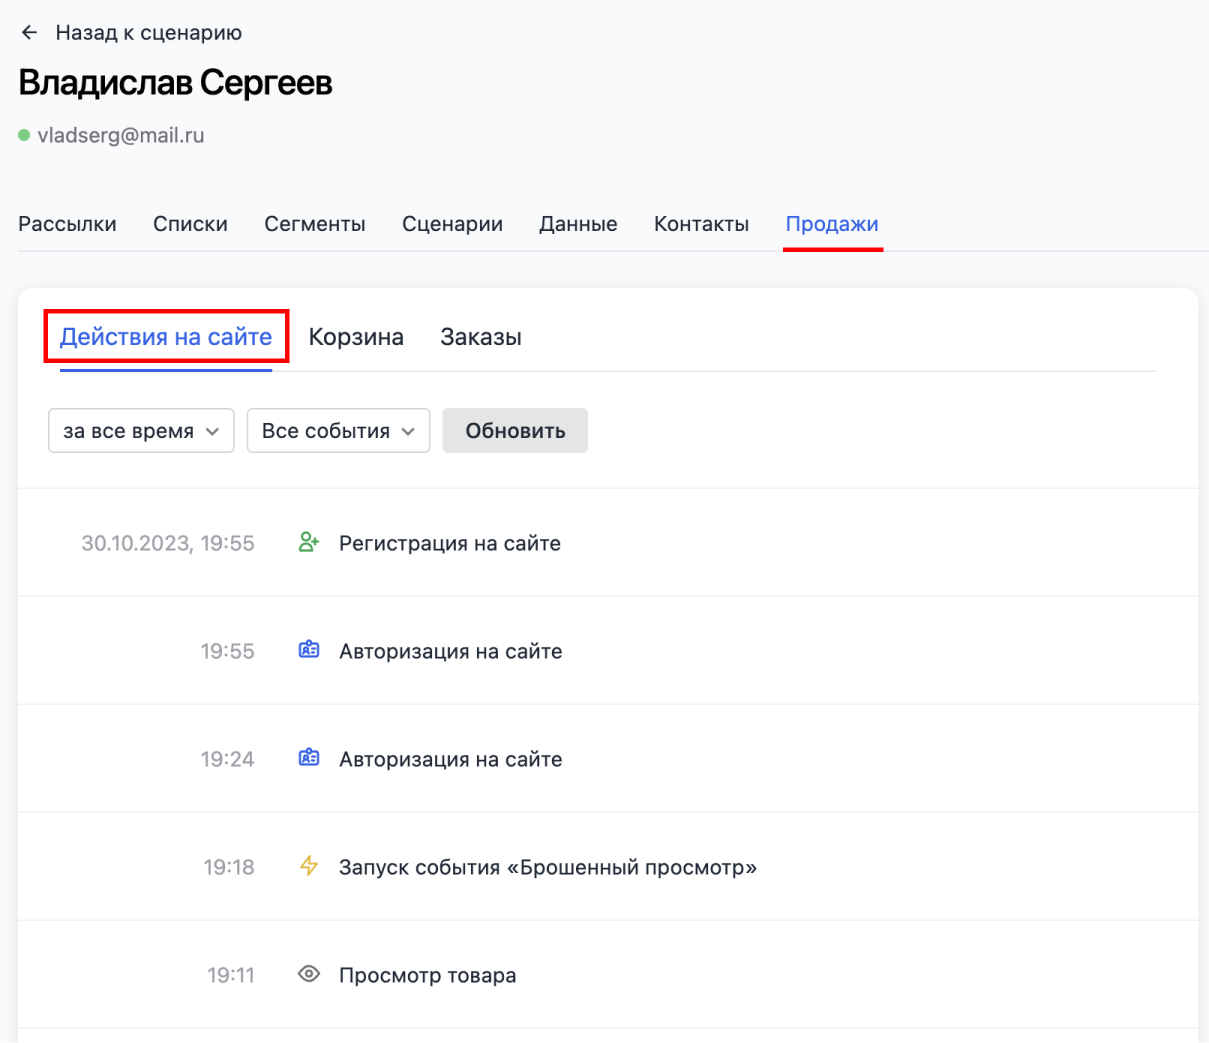
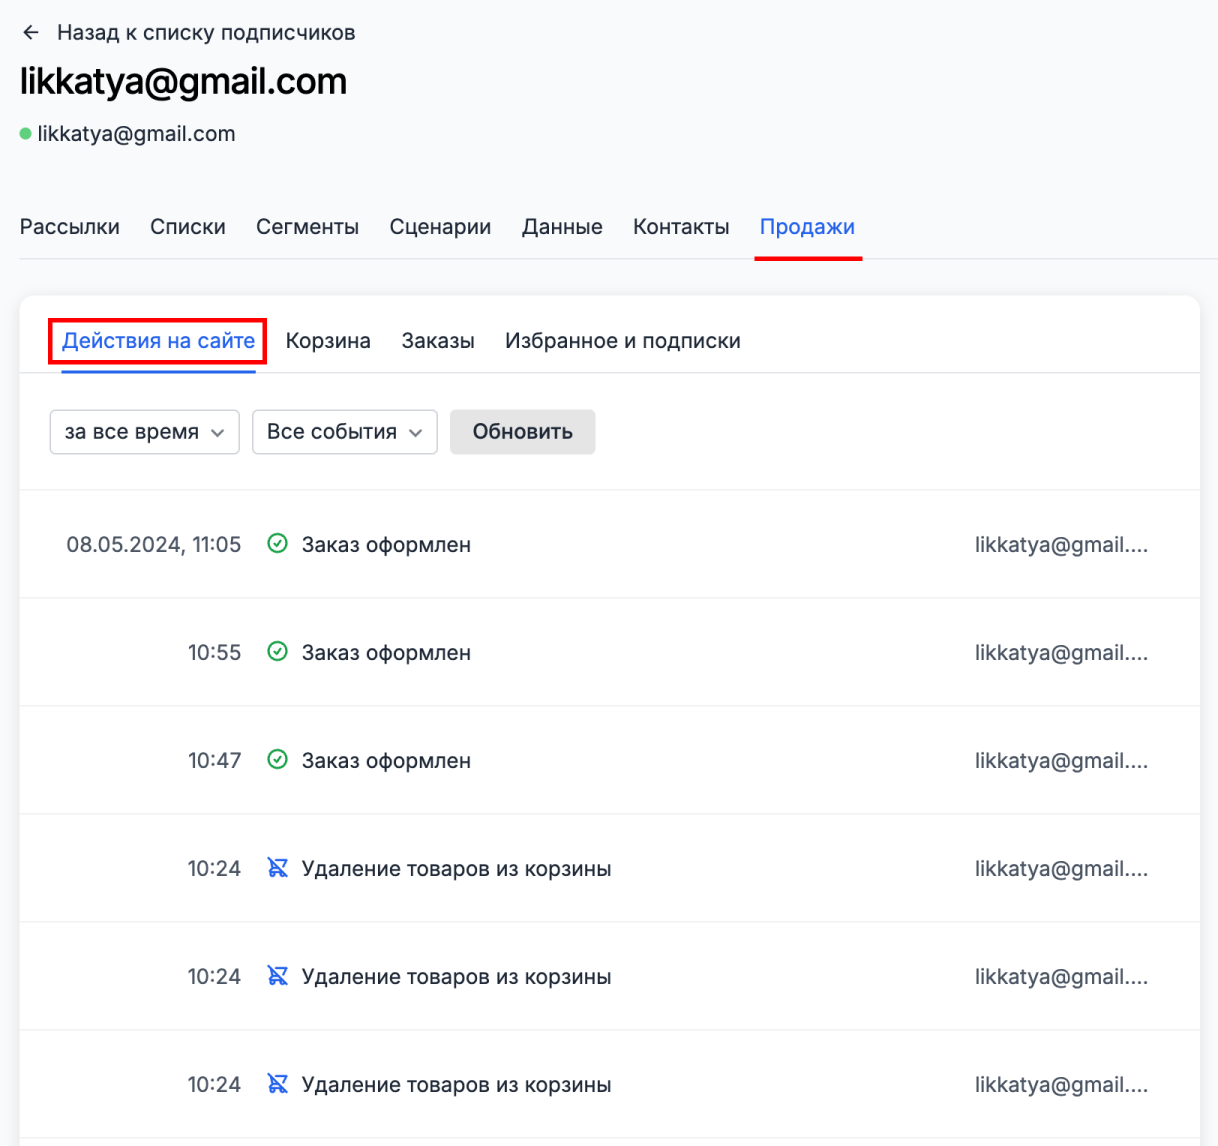
fix(sendsay-docs): edit articles (#290)

diff --git a/docs/email-campaigns/create-your-campaign/how-to-stop-emails.md b/docs/email-campaigns/create-your-campaign/how-to-stop-emails.md
@@ -5,52 +5,53 @@ sidebar_label: 'Как отменить отправку'
 
 # Как отменить или приостановить отправку выпуска
 
-В Sendsay вы можете отменить или приостановить отправку выпуска в разделе **Рассылки → Исходящие**:
+В разделе **Рассылки → Исходящие** вы можете отменить или приостановить отправку выпуска.
 
 ![Outgoing mails](/img/email-campaigns/create-your-campaign/how-to-stop-emails/outgoing-mails.jpg) <br/>
 
-Исходящие выпуски&nbsp;&mdash; это рассылки, готовящиеся к&nbsp;отправке. Часть писем, которые находятся в&nbsp;исходящих, могут успеть отправиться подписчикам.
+Исходящие выпуски&nbsp;&mdash; это рассылки, готовящиеся к&nbsp;отправке. В&nbsp;разделе **Исходящие** выводится список по&nbsp;всем исходящим выпускам. У&nbsp;каждой рассылки указан статус, список контактов, дата и&nbsp;время отправки.
 
 [Как узнать статус выпуска](#как-узнать-статус-выпуска)
-
-В&nbsp;разделе **Исходящие** выводится список по&nbsp;всем исходящим выпускам. У&nbsp;каждой рассылки указан статус, список контактов, дата и&nbsp;время отправки.
 
 Чтобы приостановить, выпустить целиком или отменить рассылку:
 
 1. Перейдите в&nbsp;раздел **Рассылки &rarr; Исходящие**.
-2. Откройте выпадающий список у&nbsp;кнопки &laquo;Отчет&raquo; и&nbsp;выберите нужное действие:
 
-![Stop](/img/email-campaigns/create-your-campaign/how-to-stop-emails/stop.jpg) <br/>
+2. Чтобы приостановить отправку рассылки, выберите нужную и нажмите «На паузу»:
 
-При выборе пункта **Приостановить** отправка рассылки будет приостановлена до&nbsp;тех пор, пока вы&nbsp;не&nbsp;возобновите отправку. После приостановки какая-то часть писем может успеть отправиться, если она уже сформировалась.
+   ![Sending pause](/img/email-campaigns/create-your-campaign/how-to-stop-emails/sending-pause.png)
 
-Если приостановить, а&nbsp;потом снова запустить отправленный по&nbsp;частям выпуск, накопленные за&nbsp;время паузы письма отправятся сразу. Оставшийся тираж писем будет отправляться с&nbsp;указанными при планировании настройками.
+   Если приостановить, а&nbsp;потом снова запустить отправленный по&nbsp;частям выпуск, накопленные за&nbsp;время паузы письма отправятся сразу. Оставшийся тираж писем будет отправляться с&nbsp;указанными при планировании настройками.
 
-При выборе пункта **Выпустить целиком** отправится весь тираж сразу, если он&nbsp;был растянут по&nbsp;частям.
+   :::tip Важно
+   Часть писем, которые находятся в&nbsp;исходящих, может успеть отправиться подписчикам.
+   :::
 
-При выборе пункта **Отменить** отправка выпуска будет остановлена. Возобновить рассылку при отмене невозможно.
+   Либо откройте выпадающий список у&nbsp;кнопки &laquo;Отчет&raquo; и&nbsp;выберите нужное действие:
 
-## Как работать с&nbsp;исходящими выпусками
+   ![Stop](/img/email-campaigns/create-your-campaign/how-to-stop-emails/stop.png) <br/>
 
-### Как узнать статус выпуска
+   - **Детали** — выберите, если хотите [узнать подробности о выпуске](#как-узнать-подробности-овыпуске).
+   - **Выпустить целиком** — отправится весь тираж сразу, если он&nbsp;был растянут по&nbsp;частям.
+   - **Отменить** — отправка выпуска будет остановлена. Возобновить рассылку при отмене невозможно.
 
-Около названия каждого выпуска в&nbsp;разделе **Исходящие** можно увидеть статус:
+## Как узнать статус выпуска
 
-![Statuses](/img/email-campaigns/create-your-campaign/how-to-stop-emails/statuses.jpg) <br/>
+Рядом с названием каждого выпуска в&nbsp;разделе **Исходящие** можно увидеть статус:
+
+![Statuses](/img/email-campaigns/create-your-campaign/how-to-stop-emails/statuses.png) <br/>
 
 Основные статусы в&nbsp;разделе **Исходящие**:
 
-- &laquo;На&nbsp;модерации&raquo; означает, что выпуск и&nbsp;список контактов находятся на&nbsp;ручной проверке для того, чтобы избежать рассылки спама.
+- **На модерации** — выпуск и&nbsp;список контактов находятся на&nbsp;ручной проверке, чтобы избежать рассылки спама.
 
   [Почему выпуск попал на модерацию?](https://docs.sendsay.ru/faq/moderation) <br/>
 
-- &laquo;Готовится к&nbsp;запуску&raquo; говорит о&nbsp;том, что выпуск находится в&nbsp;очереди на&nbsp;отправку;
+- **Готовится к запуску** — выпуск находится в&nbsp;очереди на&nbsp;отправку.
+- **Отправляется** — выпуск прошёл модерацию, передан на&nbsp;отправляющий сервер и&nbsp;письма уже начали отправляться.
+- **На паузе** отправка выпуска приостановлена по&nbsp;инициативе пользователя или из-за подозрений на&nbsp;спам.
 
-- &laquo;Отправляется&raquo; значит, что выпуск прошел модерацию, передан на&nbsp;отправляющий сервер и&nbsp;письма уже начали отправляться;
-
-- &laquo;На&nbsp;паузе&raquo;&nbsp;&mdash; отправка выпуска приостановлена по&nbsp;инициативе пользователя или из-за подозрений на&nbsp;спам.
-
-### Как узнать подробности о&nbsp;выпуске
+## Как узнать подробности о&nbsp;выпуске
 
 Детали пригодятся, чтобы узнать время отправки, аудиторию, тему и&nbsp;другие подробности. Для этого:
 

diff --git a/docs/subscribers/subscriber-data/subscriber-profile.md b/docs/subscribers/subscriber-data/subscriber-profile.md
@@ -131,10 +131,11 @@ sidebar_position: 1
 
 ![Ecom data](/img/subscribers/subscriber-data/subscriber-profile/ecom.png)
 
-Здесь есть три вкладки:
+Здесь есть 4 вкладки:
 
-- **Действия** на&nbsp;сайте отображает клиентские события&nbsp;&mdash; их&nbsp;можно отфильтровать по&nbsp;событиям и&nbsp;дате,
+- **Действия** на&nbsp;сайте показывает клиентские события&nbsp;&mdash; их&nbsp;можно отфильтровать по&nbsp;событиям и&nbsp;дате,
 - **Корзина** отображает товары в&nbsp;корзине подписчика на&nbsp;сайте, если они есть,
-- **Заказы** показывает оформленные заказы.
+- **Заказы** показывает оформленные заказы,
+- **Избранное и подписки** отображает подписки на избранное, товары в наличии и предзаказы.
 
 [Как посмотреть историю событий для конкретного подписчика](https://docs.sendsay.ru/ecom/ecom-triggers#как-посмотреть-историю-событий-для-конкретного-подписчика)

diff --git a/docs/subscribers/contacts/contact-status.md b/docs/subscribers/contacts/contact-status.md
@@ -41,7 +41,7 @@ sidebar_label: 'Статусы контактов'
 - временная (soft bounce) — например, почтовый ящик заполнен,
 - постоянная (hard bounce) — например, адрес не существует.
 
-При постоянной ошибке контакт блокируется для рассылок. Четыре временные ошибки подряд также приравниваются к постоянной.
+Некоторые виды временных ошибок могут дать постоянную. При постоянной ошибке контакт блокируется для рассылок.
 
 Любые ошибки доставки можно сбросить, чтобы заблокированный контакт снова стал доступен для рассылки:
 

diff --git a/docs/proscript/virtual-methods.md b/docs/proscript/virtual-methods.md
@@ -41,6 +41,14 @@ sidebar_label: 'Виртуальные методы'
 
 Возвращает true, если переменная определена
 
+### draft
+
+Подставляет в шаблон весь контент из другого шаблона по его `id` или `alias`
+
+```
+[% draft("id", "КОД_ШАБЛОНА") %]
+```
+
 ### match
 
 Находит в строке вхождения, соответствующие регулярному выражению
@@ -164,6 +172,7 @@ sidebar_label: 'Виртуальные методы'
 - exists
 - defined
 - delete
+- draft
 - import
 - sort
 - nsort

diff --git a/docs/proscript/date-in-proscript.md b/docs/proscript/date-in-proscript.md
@@ -98,7 +98,7 @@ sidebar_label: 'Обработка даты'
 Использовать дату выпуска, как базовую дату:
 
 ```
-[% date.format(datetime(param.issue.dt).add("days","+7"),"%d.%m.%Y") %]
+[% date.format(datetime(param.issue.date).add("days","+7"),"%d.%m.%Y") %]
 ```
 
 Использовать анкетные данные, как базовую дату:
